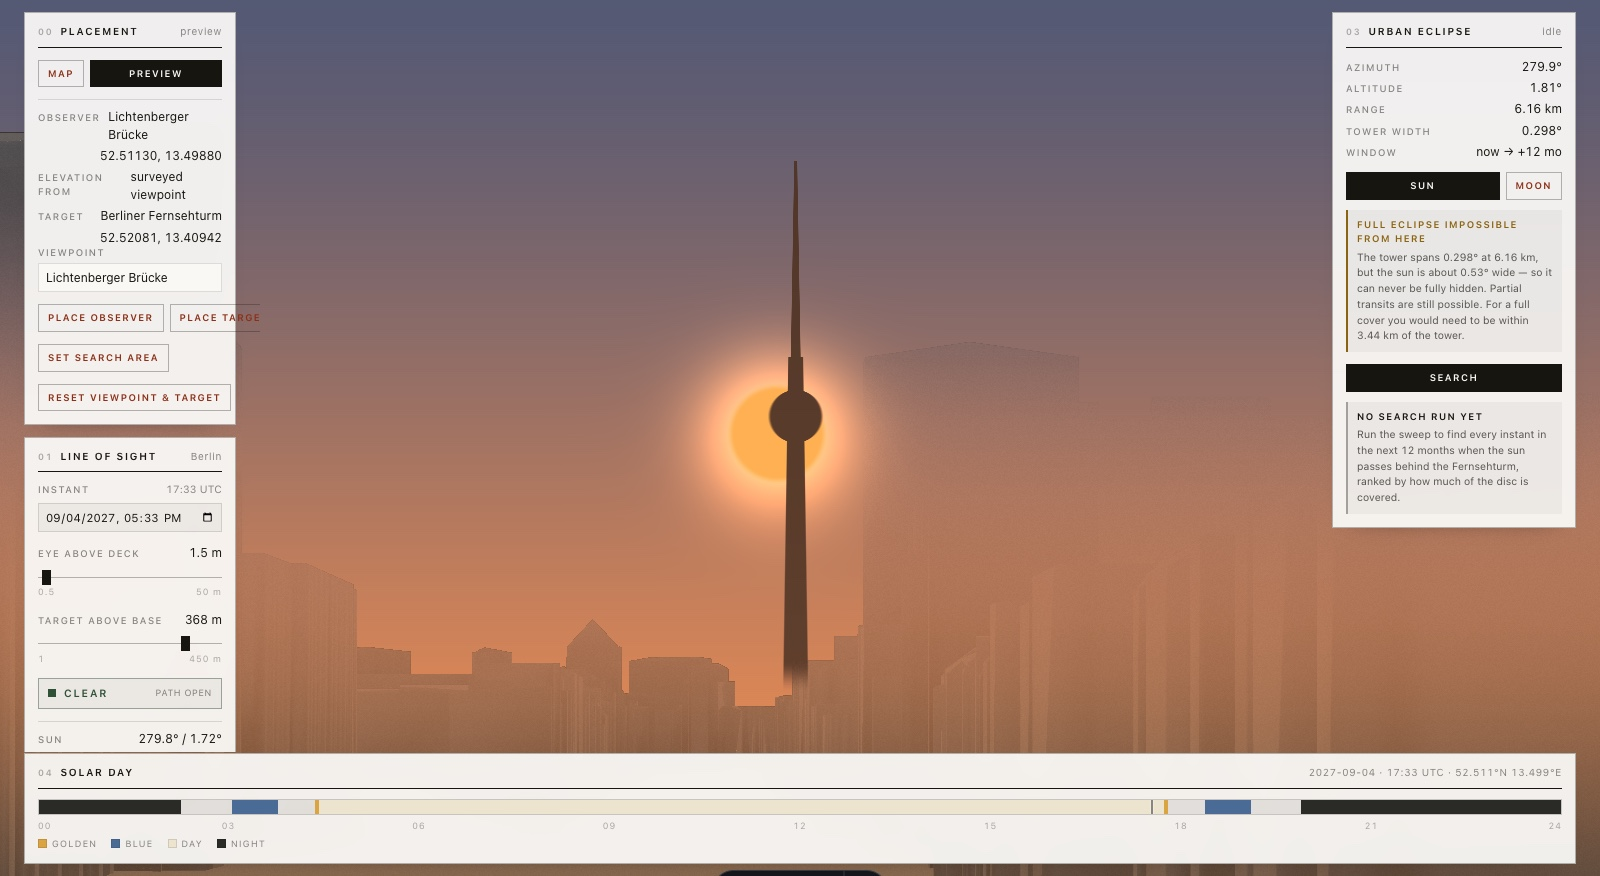
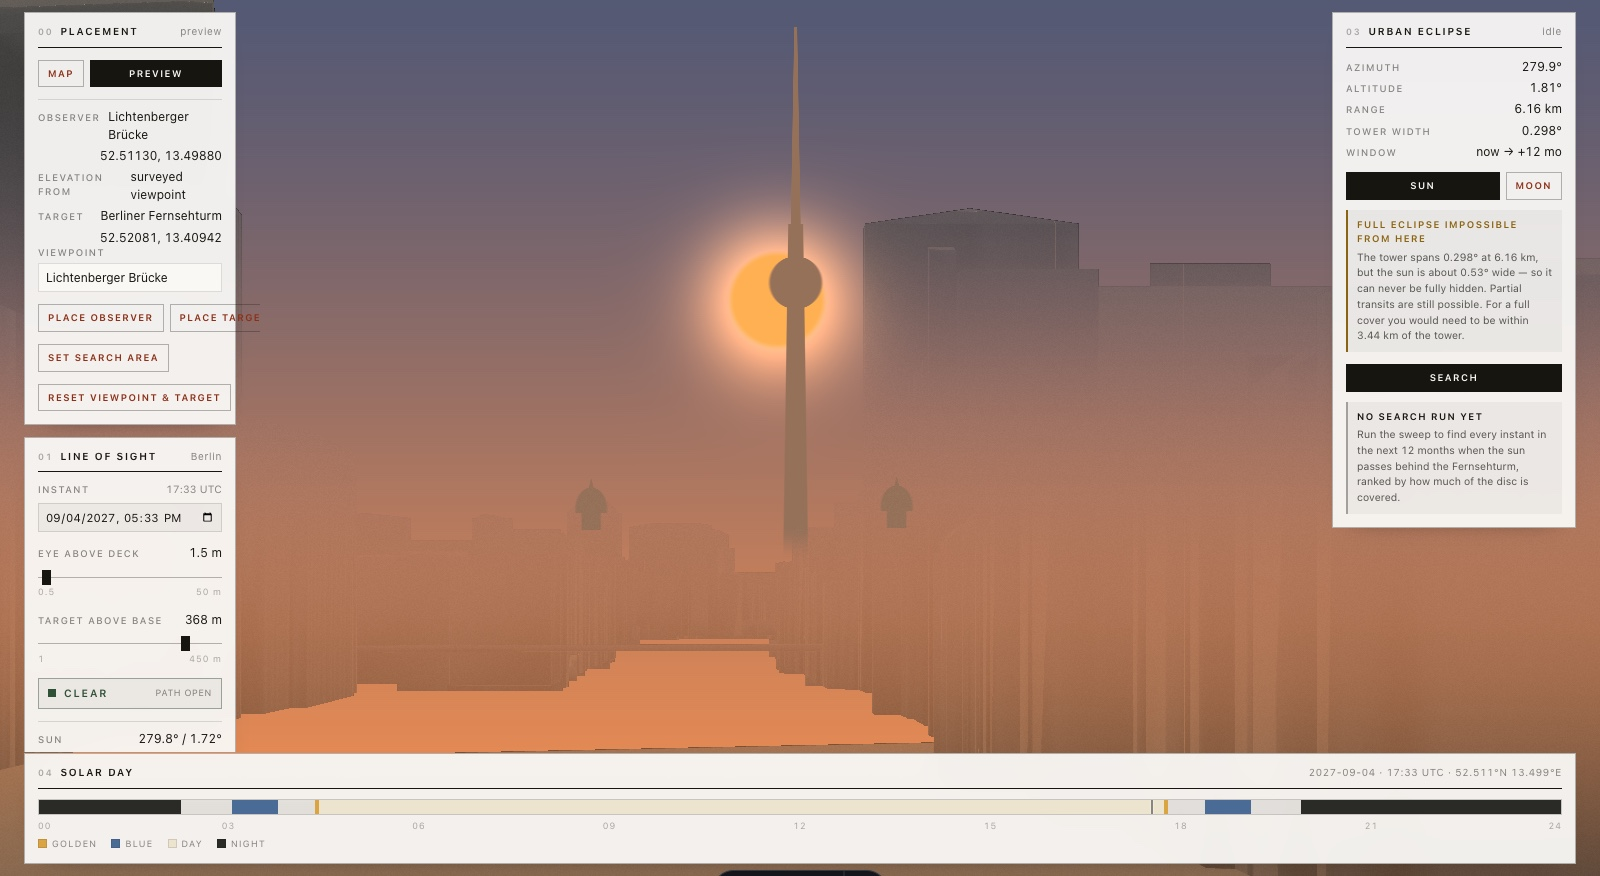
restore Berlin street-axis composition

diff --git a/src/cesium/shaders/studioEnvironment.ts b/src/cesium/shaders/studioEnvironment.ts
@@ -131,6 +131,11 @@ export function buildStudioEnvironmentShaderSource(
     'uniform vec2 u_towerBaseUv;  // landmark base in texture coords',
     'uniform vec2 u_towerTopUv;   // landmark tip in texture coords',
     'uniform float u_towerVisible;',
+    'uniform vec2 u_gateSouthBaseUv; // Frankfurter Tor south crown',
+    'uniform vec2 u_gateSouthTopUv;',
+    'uniform vec2 u_gateNorthBaseUv; // Frankfurter Tor north crown',
+    'uniform vec2 u_gateNorthTopUv;',
+    'uniform float u_gateVisible;',
     '',
     'in vec2 v_textureCoordinates;',
     '',
@@ -183,15 +188,42 @@ export function buildStudioEnvironmentShaderSource(
     '  return skylineReveal * (1.0 - smoothstep(radiusUv - edge, radiusUv + edge, distanceToAxis));',
     '}',
     '',
-    '// Atmospheric landmark material. The tower is a surveyed planning surface,',
-    '// but it should sit in the same air as the city rather than read as flat black.',
-    'vec3 landmarkColor(vec3 hazeColor, vec2 uv) {',
-    '  float span = max(abs(u_towerTopUv.y - u_towerBaseUv.y), 0.001);',
-    '  float height = clamp((uv.y - u_towerBaseUv.y) / span, 0.0, 1.0);',
-    '  vec3 warmCharcoal = vec3(0.13, 0.115, 0.12);',
-    '  vec3 atmospheric = mix(warmCharcoal, hazeColor, 0.22);',
-    '  // A little extra haze at the skyline anchors the analytical silhouette.',
-    '  return mix(atmospheric, hazeColor, (1.0 - height) * 0.10);',
+    '// Frankfurter Tor crown: lower lantern, cornice, domed copper roof and finial.',
+    '// The LoD2 blocks remain real geometry; this restores only the curved crown that',
+    '// the city mesh necessarily generalises into a flat roof.',
+    'float gateCrownMask(vec2 uv, vec2 baseUv, vec2 topUv) {',
+    '  vec2 p = vec2((uv.x - baseUv.x) * u_aspect, uv.y - baseUv.y);',
+    '  vec2 axis = vec2((topUv.x - baseUv.x) * u_aspect, topUv.y - baseUv.y);',
+    '  float axis2 = dot(axis, axis);',
+    '  if (axis2 < 0.000001) return 0.0;',
+    '  float t = dot(p, axis) / axis2;',
+    '  if (t < 0.0 || t > 1.0) return 0.0;',
+    '  float radiusRatio;',
+    '  if (t < 0.34) radiusRatio = 0.19;',
+    '  else if (t < 0.43) radiusRatio = 0.31;',
+    '  else if (t < 0.84) {',
+    '    float q = (t - 0.43) / 0.41;',
+    '    radiusRatio = 0.31 * sqrt(max(0.0, 1.0 - q * q));',
+    '  } else radiusRatio = mix(0.045, 0.008, (t - 0.84) / 0.16);',
+    '  float distanceToAxis = length(p - axis * t);',
+    '  float radiusUv = radiusRatio * sqrt(axis2);',
+    '  float edge = max(0.00028, radiusUv * 0.10);',
+    '  return 1.0 - smoothstep(radiusUv - edge, radiusUv + edge, distanceToAxis);',
+    '}',
+    '',
+    'float gateMask(vec2 uv) {',
+    '  if (u_gateVisible < 0.5) return 0.0;',
+    '  return max(',
+    '    gateCrownMask(uv, u_gateSouthBaseUv, u_gateSouthTopUv),',
+    '    gateCrownMask(uv, u_gateNorthBaseUv, u_gateNorthTopUv)',
+    '  );',
+    '}',
+    '',
+    '// Analytical landmarks share the distant city plaster rather than becoming',
+    '// darker cut-outs. Their contrast now comes from the real backlit composition.',
+    'vec3 landmarkColor(vec3 hazeColor) {',
+    '  vec3 distantPlaster = vec3(0.42, 0.39, 0.37);',
+    '  return mix(distantPlaster, hazeColor, 0.30);',
     '}',
     '',
     'void main() {',
@@ -217,8 +249,10 @@ export function buildStudioEnvironmentShaderSource(
     '  if (depth >= 1.0) {',
     '    // Sky plus the surveyed landmark silhouette. Foreground city geometry has',
     '    // depth < 1 and therefore naturally occludes the screen-space tower.',
-    '    vec3 towerColor = landmarkColor(hazeColor, v_textureCoordinates);',
-    '    out_FragColor = vec4(mix(sky, towerColor, towerMask(v_textureCoordinates)), color.a);',
+    '    vec3 landmark = landmarkColor(hazeColor);',
+    '    vec3 result = mix(sky, landmark, towerMask(v_textureCoordinates));',
+    '    result = mix(result, landmark, gateMask(v_textureCoordinates));',
+    '    out_FragColor = vec4(result, color.a);',
     '    return;',
     '  }',
     '',
@@ -254,7 +288,9 @@ export function buildStudioEnvironmentShaderSource(
     '  // The landmark is an analytical planning surface, rendered after the coarse',
     '  // LoD2 city mesh so its surveyed silhouette is not lost inside generalized',
     '  // building blocks. The separate line-of-sight verdict still reports occlusion.',
-    '  result = mix(result, landmarkColor(hazeColor, v_textureCoordinates), towerMask(v_textureCoordinates));',
+    '  vec3 landmark = landmarkColor(hazeColor);',
+    '  result = mix(result, landmark, towerMask(v_textureCoordinates));',
+    '  result = mix(result, landmark, gateMask(v_textureCoordinates));',
     '',
     '  // Film grain: temporal dither driven by czm_frameNumber (fix #4).',
     '  float grain = fract(sin(dot(v_textureCoordinates * (czm_frameNumber + 1.0), vec2(12.9898, 78.233))) * 43758.5453);',
@@ -296,6 +332,11 @@ export interface StudioEnvironmentState {
   towerBaseUv: [number, number];
   towerTopUv: [number, number];
   towerVisible: number;
+  gateSouthBaseUv: [number, number];
+  gateSouthTopUv: [number, number];
+  gateNorthBaseUv: [number, number];
+  gateNorthTopUv: [number, number];
+  gateVisible: number;
 }
 
 /** A neutral default so the stage renders sanely before the app sets real values. */
@@ -314,6 +355,11 @@ export function defaultStudioEnvironmentState(): StudioEnvironmentState {
     towerBaseUv: [0.5, 0.25],
     towerTopUv: [0.5, 0.75],
     towerVisible: 0,
+    gateSouthBaseUv: [0.45, 0.25],
+    gateSouthTopUv: [0.45, 0.3],
+    gateNorthBaseUv: [0.55, 0.25],
+    gateNorthTopUv: [0.55, 0.3],
+    gateVisible: 0,
   };
 }
 
@@ -352,6 +398,23 @@ export function createStudioEnvironmentStage(
       u_towerBaseUv: new Cesium.Cartesian2(state.towerBaseUv[0], state.towerBaseUv[1]),
       u_towerTopUv: new Cesium.Cartesian2(state.towerTopUv[0], state.towerTopUv[1]),
       u_towerVisible: state.towerVisible,
+      u_gateSouthBaseUv: new Cesium.Cartesian2(
+        state.gateSouthBaseUv[0],
+        state.gateSouthBaseUv[1],
+      ),
+      u_gateSouthTopUv: new Cesium.Cartesian2(
+        state.gateSouthTopUv[0],
+        state.gateSouthTopUv[1],
+      ),
+      u_gateNorthBaseUv: new Cesium.Cartesian2(
+        state.gateNorthBaseUv[0],
+        state.gateNorthBaseUv[1],
+      ),
+      u_gateNorthTopUv: new Cesium.Cartesian2(
+        state.gateNorthTopUv[0],
+        state.gateNorthTopUv[1],
+      ),
+      u_gateVisible: state.gateVisible,
     },
   });
   return stage;
@@ -399,4 +462,21 @@ export function updateStudioUniforms(
     state.towerTopUv[1],
   );
   stage.uniforms.u_towerVisible = state.towerVisible;
+  stage.uniforms.u_gateSouthBaseUv = new Cesium.Cartesian2(
+    state.gateSouthBaseUv[0],
+    state.gateSouthBaseUv[1],
+  );
+  stage.uniforms.u_gateSouthTopUv = new Cesium.Cartesian2(
+    state.gateSouthTopUv[0],
+    state.gateSouthTopUv[1],
+  );
+  stage.uniforms.u_gateNorthBaseUv = new Cesium.Cartesian2(
+    state.gateNorthBaseUv[0],
+    state.gateNorthBaseUv[1],
+  );
+  stage.uniforms.u_gateNorthTopUv = new Cesium.Cartesian2(
+    state.gateNorthTopUv[0],
+    state.gateNorthTopUv[1],
+  );
+  stage.uniforms.u_gateVisible = state.gateVisible;
 }

diff --git a/src/components/react/CesiumViewer.tsx b/src/components/react/CesiumViewer.tsx
@@ -86,7 +86,7 @@ import { findViewpoint } from '../../lib/viewpoints.js';
 import { sampleBody } from '../../lib/bodyPosition.js';
 import { skyPalette } from '../../lib/skyPalette.js';
 import { azAltTo, directionOffsetECEF, geodeticToECEF } from '../../lib/silhouette.js';
-import { FERNSEHTURM } from '../../lib/landmarks.js';
+import { FERNSEHTURM, FRANKFURTER_TOR_CROWNS } from '../../lib/landmarks.js';
 import { computeDiscState } from '../../cesium/celestialDisc.js';
 import {
   BERLIN_GROUND_ORTHOMETRIC_FALLBACK,
@@ -117,6 +117,21 @@ const TILESET_URL = import.meta.env.PUBLIC_TILESET_URL ?? '/berlin-core/tileset.
 // (Berlin tileset's root bounding-volume centre is in the same neighbourhood; this is
 // only consulted before the root content loads.)
 const TILESET_ECEF_CENTER = new Cesium.Cartesian3(3782802.4642903516, 902286.4677665455, 5038573.502874194);
+
+/**
+ * The photographed street valley from Lichtenberger Brücke toward Alexanderplatz.
+ * The points follow the Frankfurter Allee / Karl-Marx-Allee centre line through
+ * Frankfurter Tor. The ribbon is a restrained planning surface, not a road map: its
+ * job is to keep the real urban axis legible inside the otherwise uniform plaster city.
+ */
+const FRANKFURTER_ALLEE_AXIS = [
+  13.4988, 52.5113,
+  13.482, 52.5135,
+  13.465, 52.5149,
+  13.45403, 52.51581,
+  13.436, 52.517,
+  13.4285, 52.5182,
+] as const;
 
 /** How long the scene may stay in a non-ready phase before we warn the user (T059). */
 const SLOW_SCENE_WARNING_MS = 25_000;
@@ -361,6 +376,29 @@ export default function CesiumViewer(): JSX.Element {
         tileset.style = new Cesium.Cesium3DTileStyle({ color: "color('#ffffff')" });
         tileset.imageBasedLighting.luminanceAtZenith = 0.6;
         tileset.shadows = Cesium.ShadowMode.ENABLED;
+
+        // Keep the photographed boulevard legible as it drops away from the bridge.
+        // A real-width ground corridor creates perspective naturally; unlike a screen
+        // overlay, it narrows with distance and is occluded by the actual city mesh.
+        viewer.entities.add({
+          id: 'pv-frankfurter-allee-axis',
+          corridor: {
+            positions: Cesium.Cartesian3.fromDegreesArray([...FRANKFURTER_ALLEE_AXIS]),
+            width: 34,
+            height: 0,
+            material: Cesium.Color.fromCssColorString('#29313a').withAlpha(0.82),
+            heightReference: Cesium.HeightReference.CLAMP_TO_GROUND,
+          },
+        });
+        viewer.entities.add({
+          id: 'pv-frankfurter-allee-centreline',
+          polyline: {
+            positions: Cesium.Cartesian3.fromDegreesArray([...FRANKFURTER_ALLEE_AXIS]),
+            width: 1,
+            material: Cesium.Color.fromCssColorString('#e5d8c4').withAlpha(0.52),
+            clampToGround: true,
+          },
+        });
         // Debug hook for headless scene-state inspection (scripts/diagnose.mjs).
         (window as unknown as { __cesium?: unknown }).__cesium = {
           viewer,
@@ -610,8 +648,15 @@ export default function CesiumViewer(): JSX.Element {
             const range = azAltTo(observerGeo, tgtPos.lat, tgtPos.lon, tgtTopEll).rangeM;
             const heightAtBody =
               obs.ellipsoidalHeight + range * Math.tan((bodySample.alt * Math.PI) / 180);
-            // Clamp within the target so we never aim at sky above the tip or below base.
-            aimEll = Math.min(tgtTopEll, Math.max(obs.ellipsoidalHeight + 5, heightAtBody));
+            // Put the eclipse in the upper third instead of dead centre. Aiming below
+            // the body reveals the Frankfurter-Allee street valley and the Frankfurter
+            // Tor crowns while keeping the complete tower inside the telephoto frame.
+            const targetBaseEll = tgtTopEll - targetHeight.get();
+            const compositionDropM = Math.min(90, targetHeight.get() * 0.22);
+            aimEll = Math.min(
+              tgtTopEll,
+              Math.max(targetBaseEll + 5, heightAtBody - compositionDropM),
+            );
           }
 
           flyToPreview(
@@ -658,6 +703,7 @@ export default function CesiumViewer(): JSX.Element {
             setDiscState(undefined);
             studioState.sunVisible = 0; // no disc/bloom off the preview
             studioState.towerVisible = 0;
+            studioState.gateVisible = 0;
             updateStudioUniforms(Cesium, studioStage, studioState);
             return;
           }
@@ -793,11 +839,55 @@ export default function CesiumViewer(): JSX.Element {
             } else {
               studioState.towerVisible = 0;
             }
+
+            // Restore the paired Frankfurter Tor cupolas that Berlin's LoD2 blocks
+            // generalise into flat roofs. Only the curved crowns are analytical; their
+            // positions come from the OSM building-part centroids and their absolute
+            // height envelope is recorded in lib/landmarks.ts.
+            const projectCrown = (crown: (typeof FRANKFURTER_TOR_CROWNS)[number]) => {
+              const base = Cesium.Cartesian3.fromDegrees(
+                crown.lon,
+                crown.lat,
+                orthometricToEllipsoidal(crown.crownBaseOrthometric),
+              );
+              const top = Cesium.Cartesian3.fromDegrees(
+                crown.lon,
+                crown.lat,
+                orthometricToEllipsoidal(crown.crownTopOrthometric),
+              );
+              const baseWin = Cesium.SceneTransforms.worldToWindowCoordinates(scene, base);
+              const topWin = Cesium.SceneTransforms.worldToWindowCoordinates(scene, top);
+              if (!baseWin || !topWin || canvas.clientWidth <= 0 || canvas.clientHeight <= 0) {
+                return undefined;
+              }
+              return {
+                base: [
+                  baseWin.x / canvas.clientWidth,
+                  1 - baseWin.y / canvas.clientHeight,
+                ] as [number, number],
+                top: [
+                  topWin.x / canvas.clientWidth,
+                  1 - topWin.y / canvas.clientHeight,
+                ] as [number, number],
+              };
+            };
+            const southCrown = projectCrown(FRANKFURTER_TOR_CROWNS[0]);
+            const northCrown = projectCrown(FRANKFURTER_TOR_CROWNS[1]);
+            if (southCrown && northCrown) {
+              studioState.gateSouthBaseUv = southCrown.base;
+              studioState.gateSouthTopUv = southCrown.top;
+              studioState.gateNorthBaseUv = northCrown.base;
+              studioState.gateNorthTopUv = northCrown.top;
+              studioState.gateVisible = 1;
+            } else {
+              studioState.gateVisible = 0;
+            }
             updateStudioUniforms(Cesium, studioStage, studioState);
           } catch (err) {
             // Never let a drawing failure take down the scene; report it instead.
             setDiscState(undefined);
             studioState.sunVisible = 0;
+            studioState.gateVisible = 0;
             updateStudioUniforms(Cesium, studioStage, studioState);
             console.error('[CesiumViewer] celestial disc failed', err);
           }

diff --git a/src/lib/landmarks.ts b/src/lib/landmarks.ts
@@ -47,6 +47,23 @@ export interface RevolutionLandmark {
 }
 
 /**
+ * A small architectural crown that the city LoD2 mesh generalises into a flat roof.
+ * These are compositional landmarks rather than occultation targets, so a surveyed
+ * screen silhouette is sufficient while the surrounding building remains the real
+ * LoD2 geometry.
+ */
+export interface CrownLandmark {
+  id: string;
+  name: string;
+  lat: number;
+  lon: number;
+  /** Absolute DHHN2016 height at the bottom/top of the visible crown. */
+  crownBaseOrthometric: number;
+  crownTopOrthometric: number;
+  notes: string;
+}
+
+/**
  * Sample a sphere's radius profile, unioned with the surrounding shaft.
  * r(h) = sqrt(R^2 - (h - centre)^2) over the sphere's vertical span.
  */
@@ -119,6 +136,38 @@ export const FERNSEHTURM: RevolutionLandmark = {
     'Total height 368.03 m and sphere diameter 32 m are high-confidence published ' +
     'values; antenna base diameter is estimated and is the largest uncertainty.',
 };
+
+/**
+ * The paired cupola crowns at Frankfurter Tor, looking west from Lichtenberger Brücke.
+ * Their axes use the OSM building-part centroids; ground comes from the committed DGM1
+ * heightmap. The vertical envelope follows the OSM 12-14-level crown parts and is
+ * deliberately approximate: it restores the recognisable skyline without pretending
+ * to be survey geometry. The LoD2 blocks beneath remain authoritative.
+ */
+export const FRANKFURTER_TOR_CROWNS: readonly [CrownLandmark, CrownLandmark] = [
+  {
+    id: 'frankfurter-tor-south-crown',
+    name: 'Frankfurter Tor Südturm crown',
+    lat: 52.515653688,
+    lon: 13.452508288,
+    crownBaseOrthometric: 73.6,
+    crownTopOrthometric: 89.6,
+    notes:
+      'OSM building-part centroid (way 288230374); DGM1 ground 37.58 m. ' +
+      'Crown envelope approximated from OSM levels 12-14 and the visible cupola/spire.',
+  },
+  {
+    id: 'frankfurter-tor-north-crown',
+    name: 'Frankfurter Tor Nordturm crown',
+    lat: 52.516501088,
+    lon: 13.452732988,
+    crownBaseOrthometric: 74.3,
+    crownTopOrthometric: 90.3,
+    notes:
+      'OSM building-part centroid (way 288230376); DGM1 ground 38.32 m. ' +
+      'Crown envelope approximated from OSM levels 12-14 and the visible cupola/spire.',
+  },
+];
 
 /**
  * Radius of a landmark at a given height above its base, linearly interpolated.

diff --git a/tests/unit/studioEnvironment.test.ts b/tests/unit/studioEnvironment.test.ts
@@ -188,10 +188,17 @@ describe('buildStudioEnvironmentShaderSource — GLSL ES fragment for PostProces
       expect(src).toContain('color.rgb * u_sceneTint');
     });
 
-    it('uses an atmospheric landmark material instead of a flat black silhouette', () => {
+    it('uses the distant-city plaster for analytical landmarks instead of a black silhouette', () => {
       expect(src).toContain('vec3 landmarkColor');
-      expect(src).toContain('mix(warmCharcoal, hazeColor, 0.22)');
+      expect(src).toContain('mix(distantPlaster, hazeColor, 0.30)');
       expect(src).not.toContain('mix(result, vec3(0.12, 0.115, 0.12)');
+    });
+
+    it('restores the paired Frankfurter Tor crowns omitted by the LoD2 mesh', () => {
+      expect(src).toContain('uniform vec2 u_gateSouthBaseUv');
+      expect(src).toContain('uniform vec2 u_gateNorthBaseUv');
+      expect(src).toContain('float gateCrownMask');
+      expect(src).toContain('gateMask(v_textureCoordinates)');
     });
 
     it('works with no opts (sensible plaster-void defaults)', () => {
